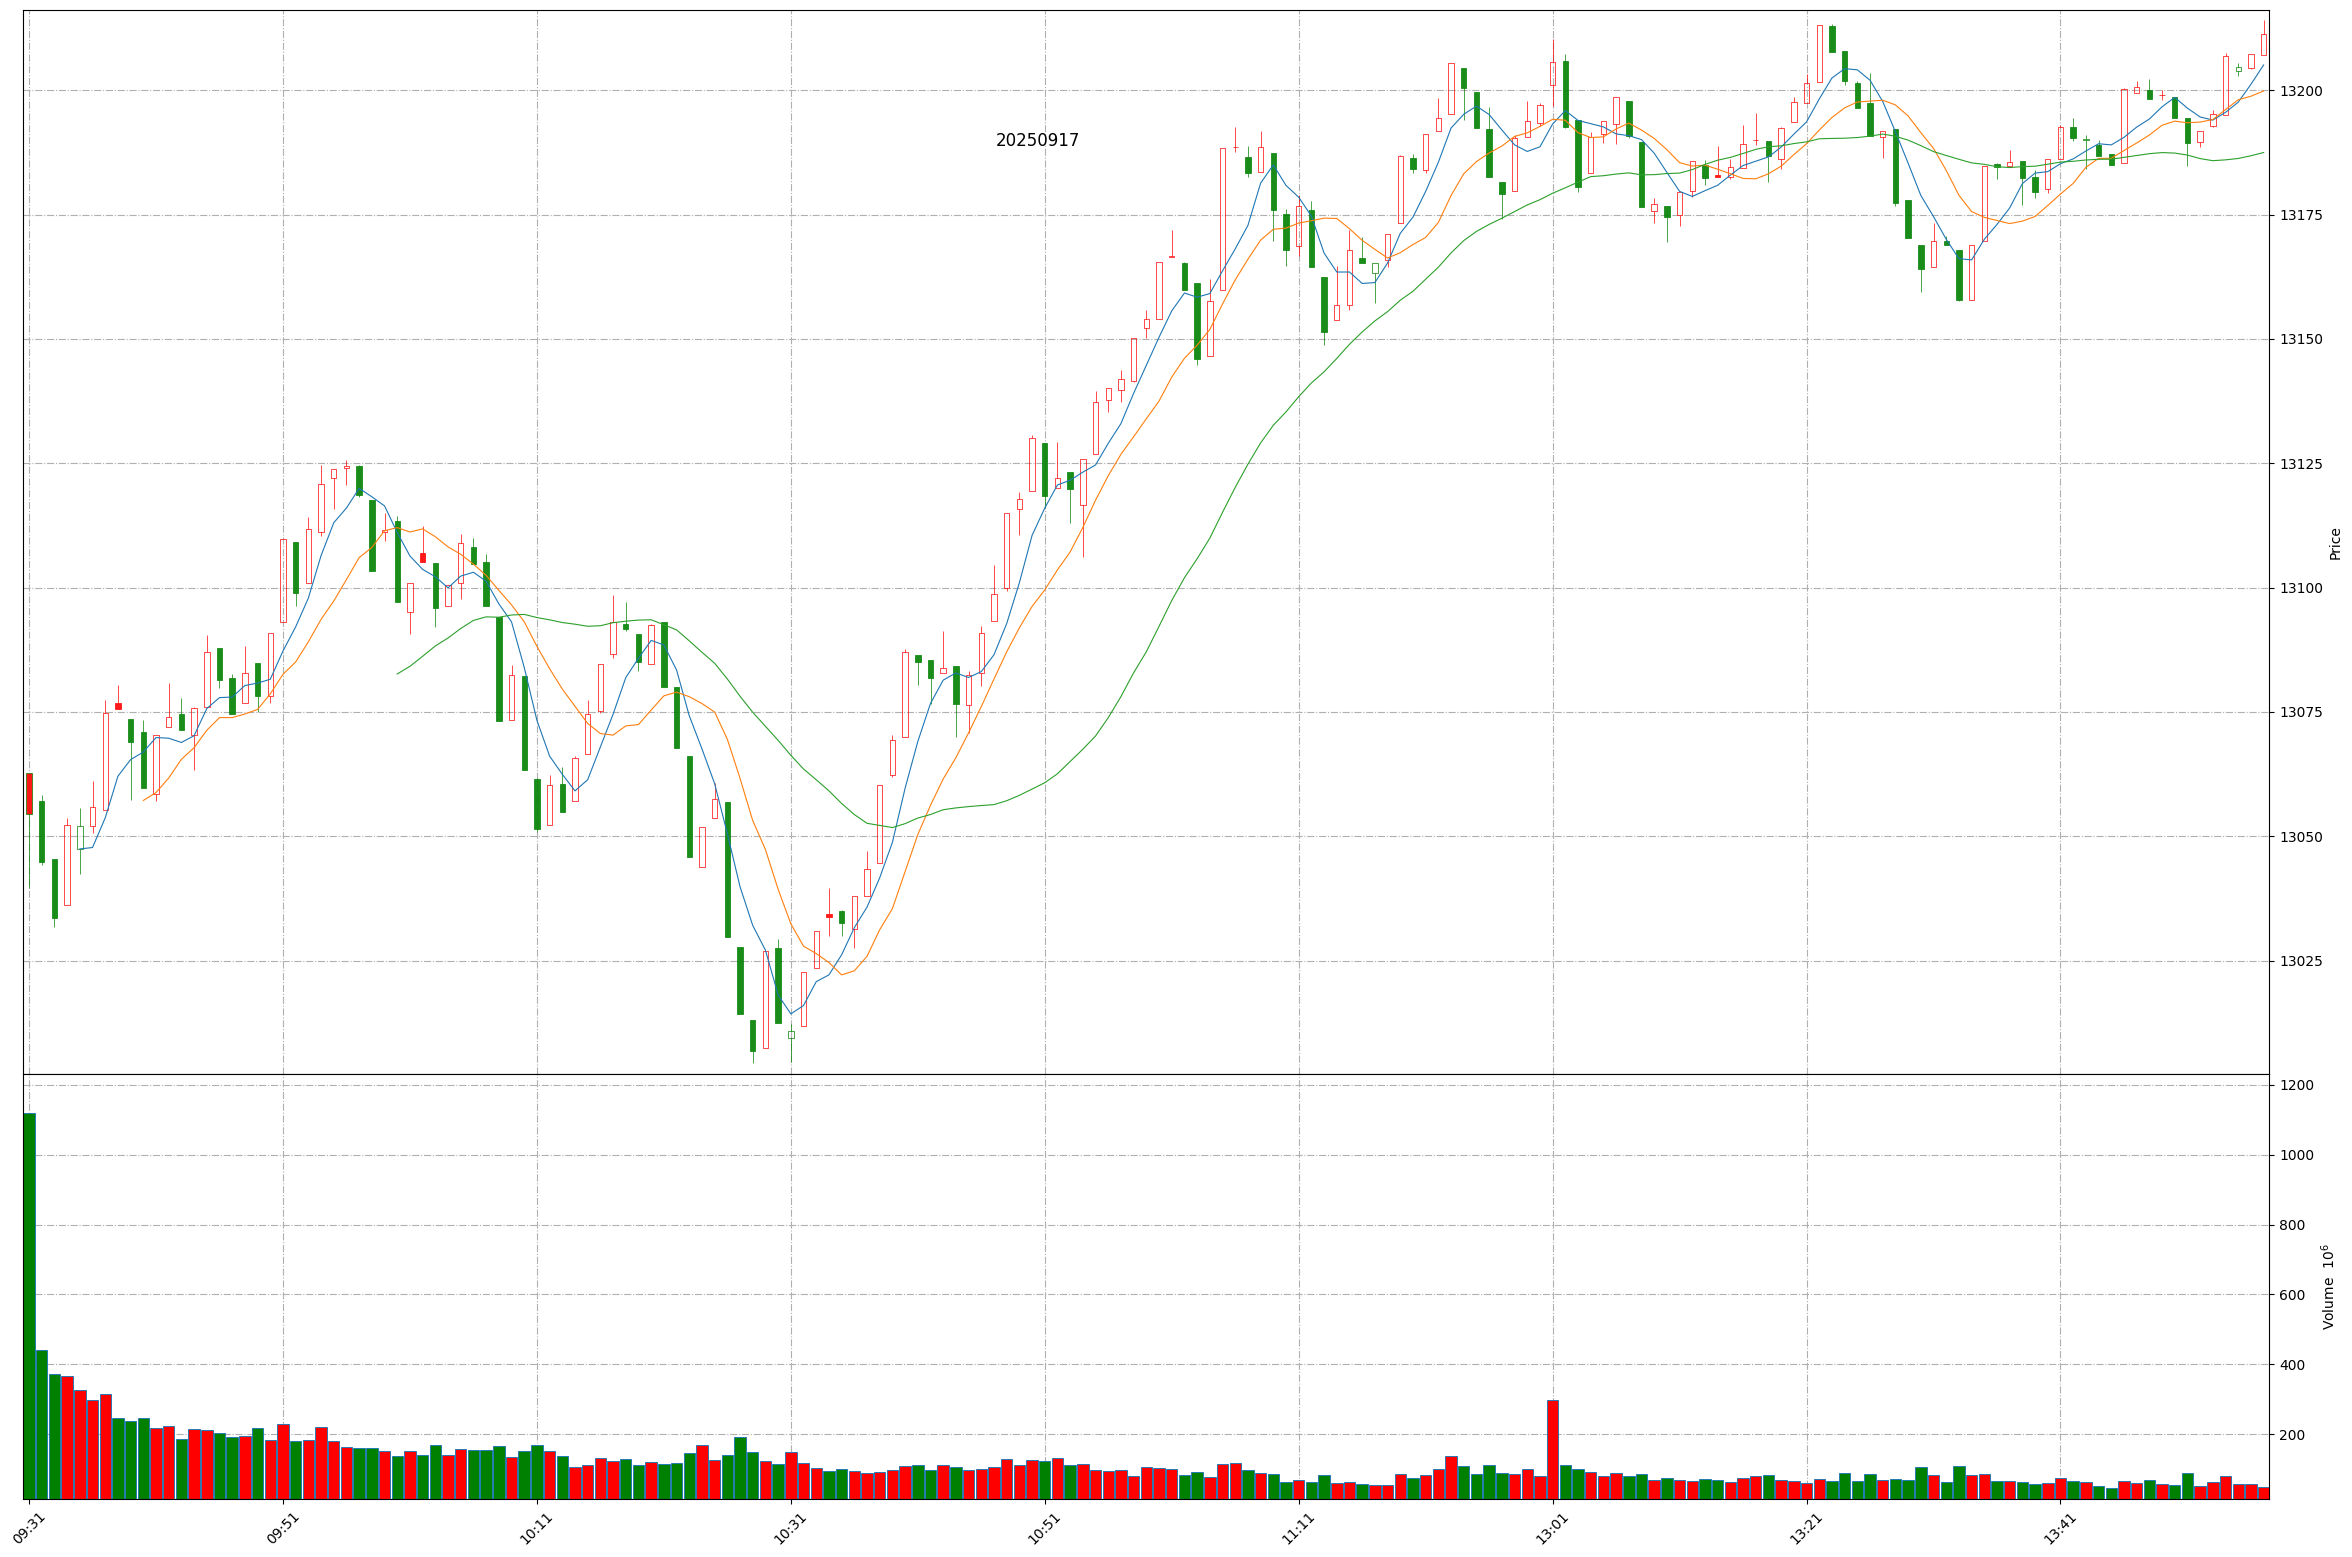
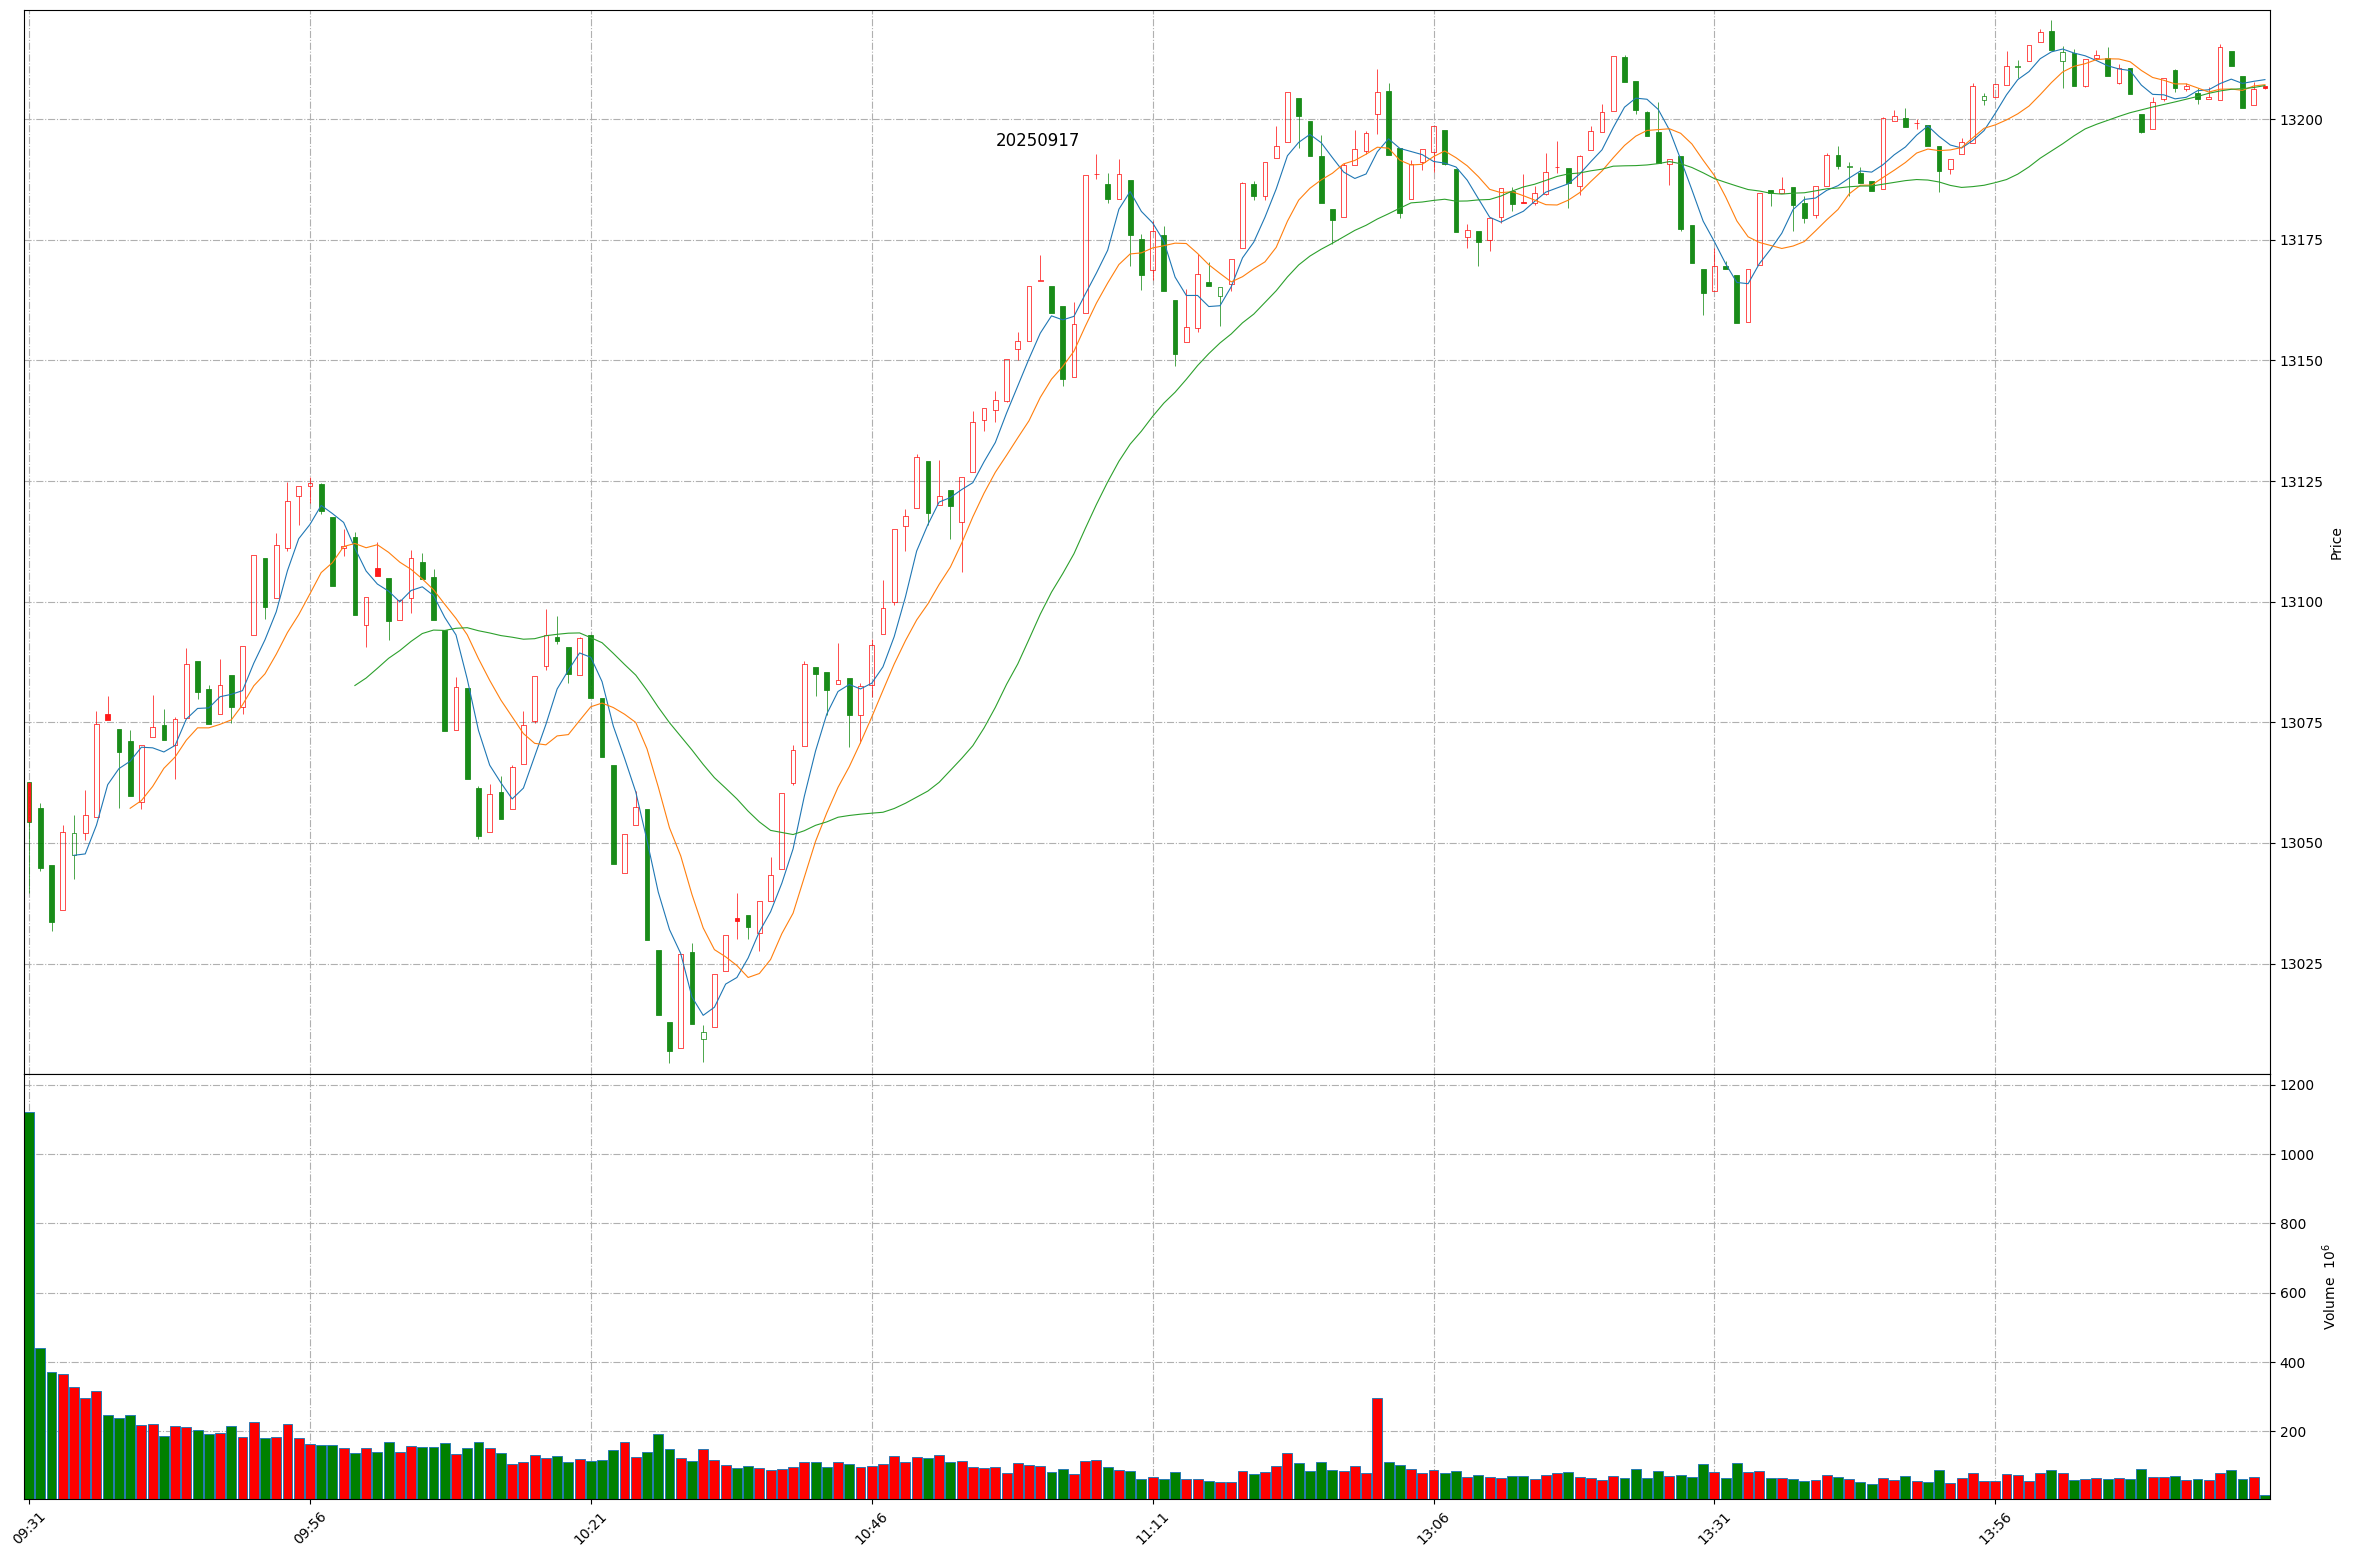
Github action update at 2025-09-17 14:19:26.

diff --git a/README.md b/README.md
@@ -1,11 +1,11 @@
 
 # Daily-A-share-market-quotes 每日 A 股指数（5min 更新）- 20250917
 
-### 上证指数 20250917 13:56
+### 上证指数 20250917 14:19
 ![](./fig/2025/9/20250917-sh000001.png)
 
-### 深证成指 20250917 13:56
+### 深证成指 20250917 14:19
 ![](./fig/2025/9/20250917-sz399001.png)
 
-### 北证50 20250917 13:56
+### 北证50 20250917 14:19
 ![](./fig/2025/9/20250917-bj899050.png)
